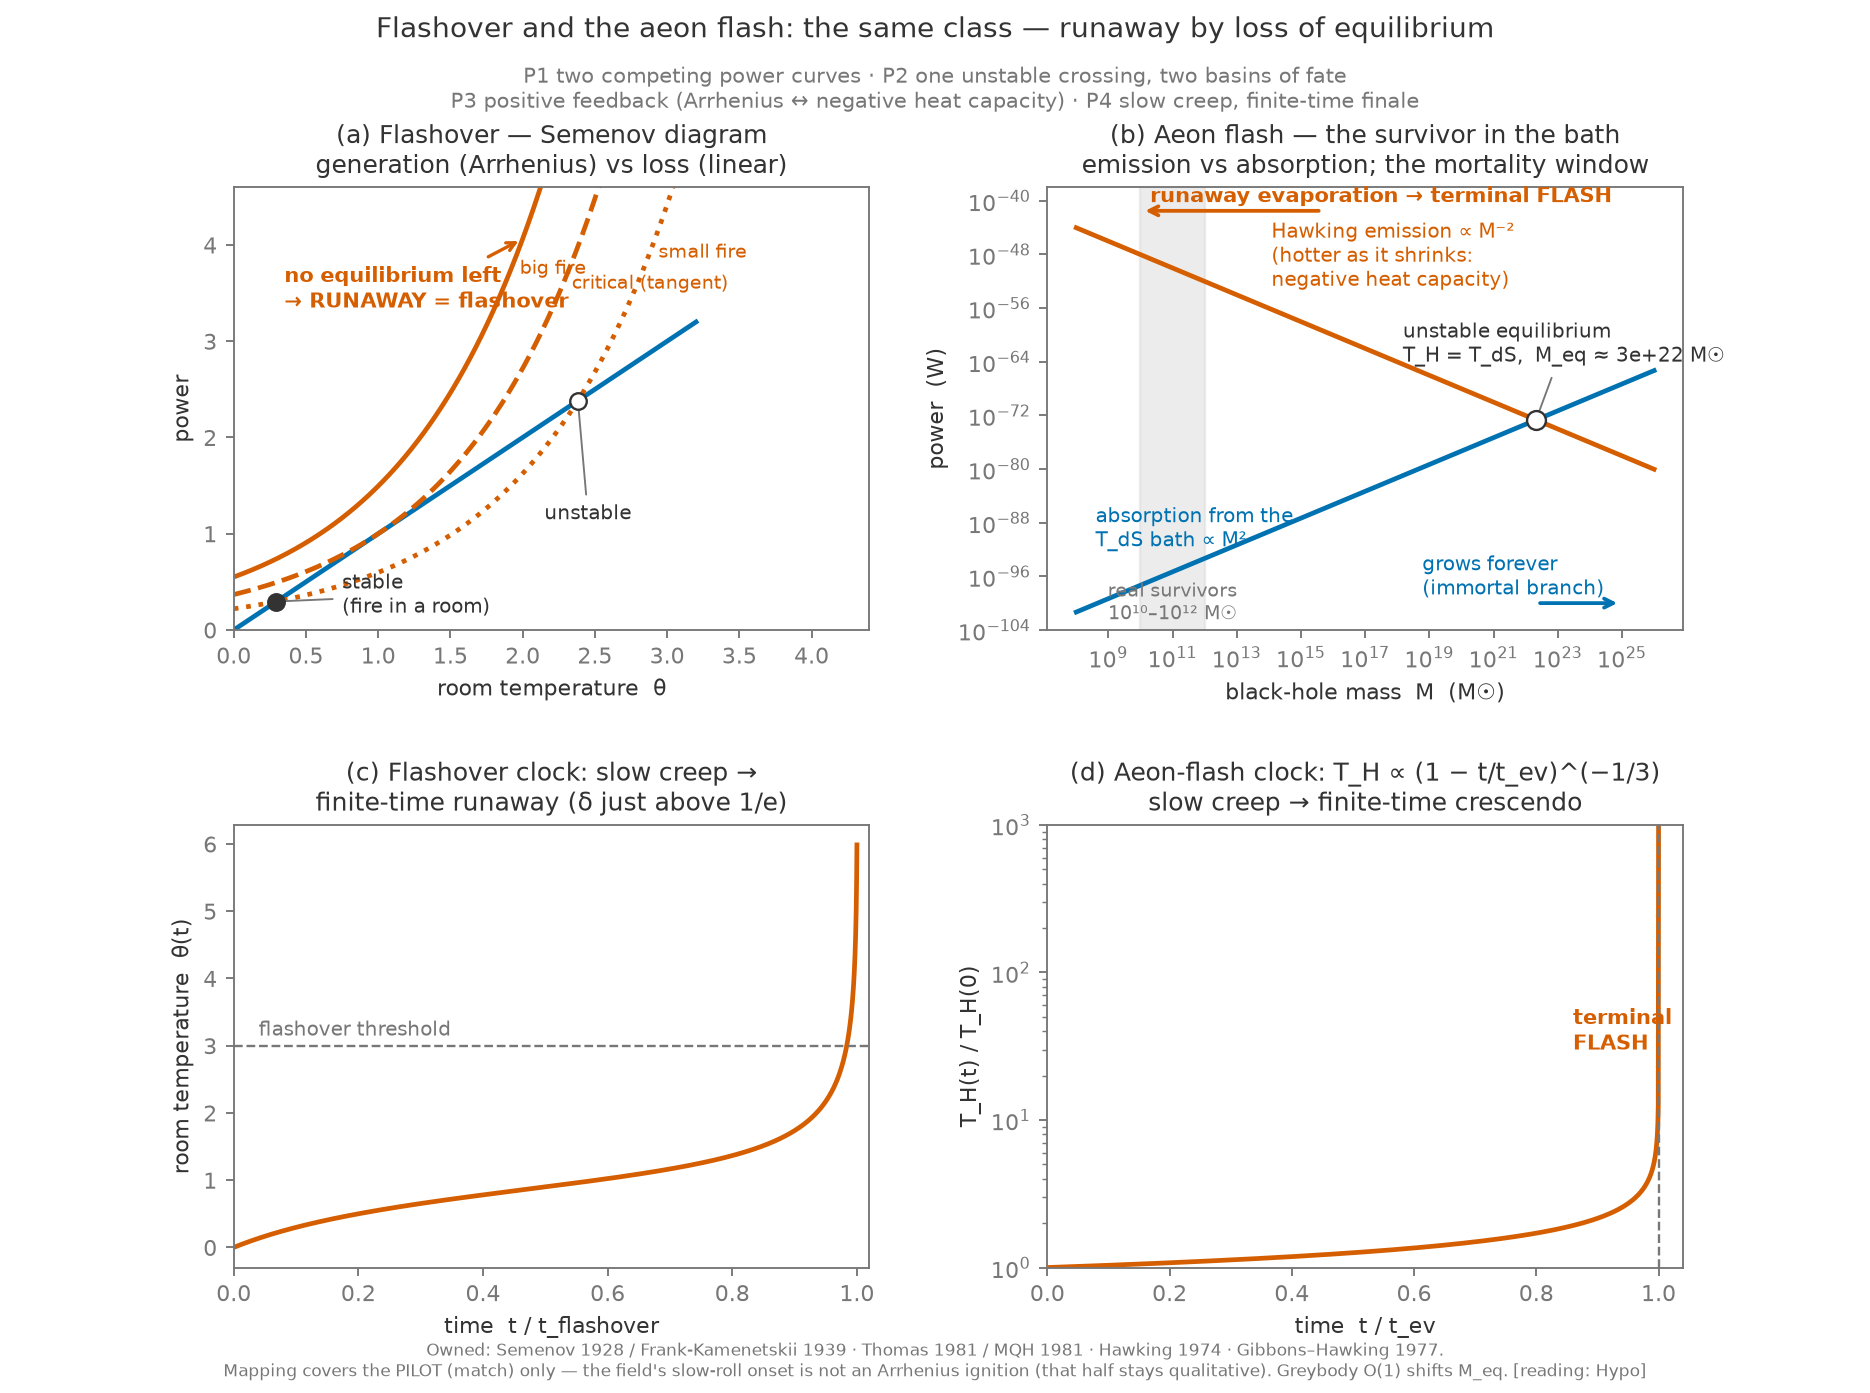
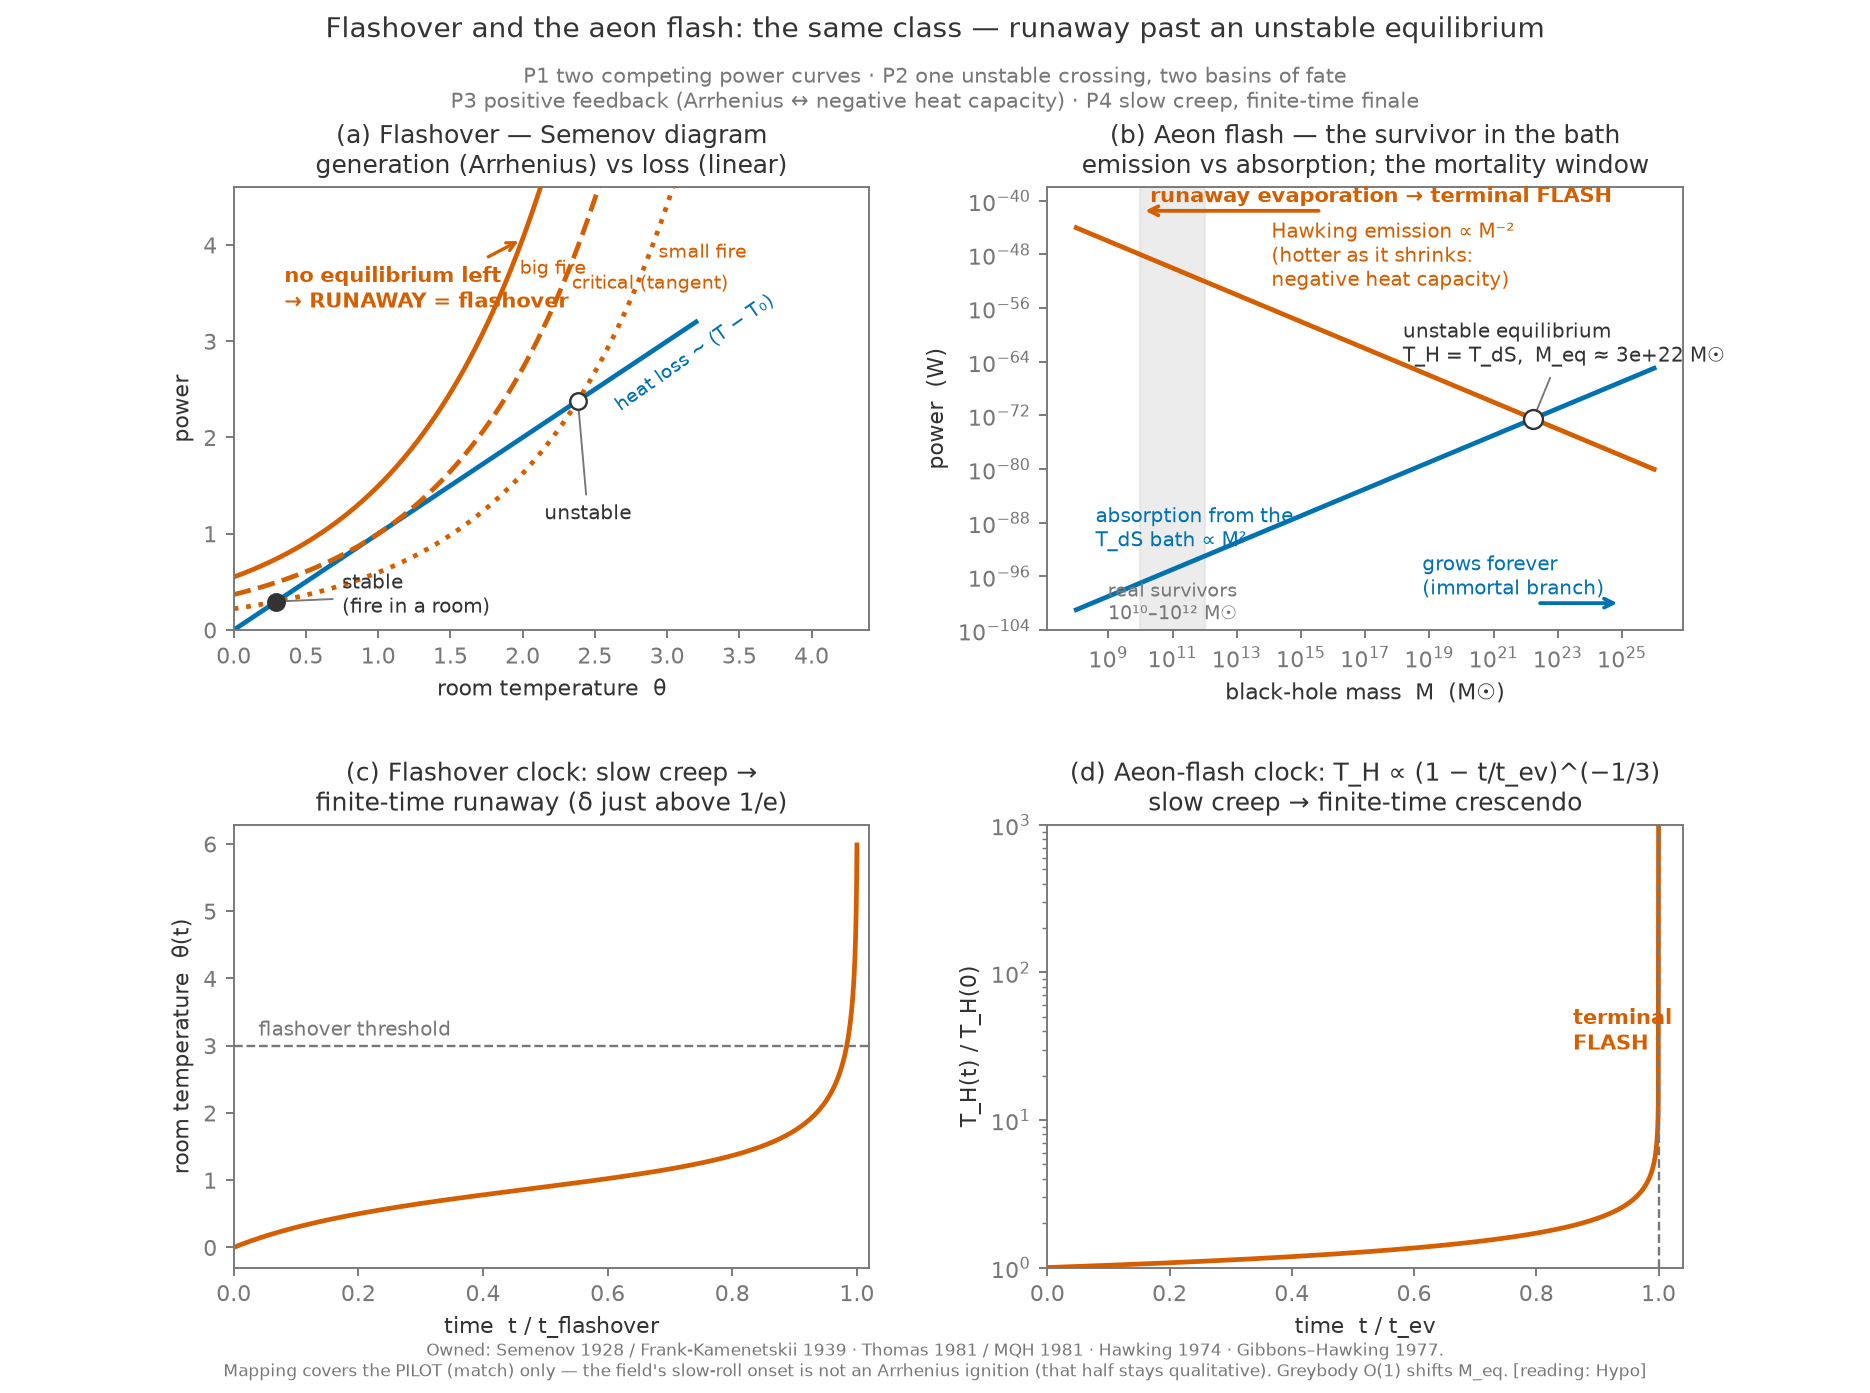
fix (verifier findings): H_inf sqrt restored, wording tightened, heat-loss line labeled
Independent verification recomputed everything (all core physics CONFIRMED:
M_eq routes, instability sign, Semenov tangency at 1/e, panel-d identity,
arrow directions, repo consistency ruled no-contradiction) and caught three
fixes, applied: (1) H_inf was 1.5e-18 = H0*Omega_L -- the sqrt was dropped,
disagreeing with the script's own comment and with endgame_anchored_desitter.py
(1.83e-18); corrected -> T_dS=2.22e-30 K, M_eq(T_H=T_dS)=2.77e22 Msun,
M_eq(flux)=1.72e22 Msun, survivor band 10.4-12.4 orders below the ceiling
(now also matching OPEN_PROBLEMS' '~10 orders' anchor); (2) suptitle/docstring
'runaway by loss of equilibrium' overreached -- the saddle-node annihilation is
Semenov-side only, panel (b)'s power laws always cross once; reworded to
'runaway past an unstable equilibrium' (the accurate shared class); (3) the
heat-loss line's legend label never rendered (no legend call) -- replaced with
a direct on-line label; orders print now one decimal.

diff --git a/code/flashover_vs_aeonflash_semenov.py b/code/flashover_vs_aeonflash_semenov.py
@@ -1,6 +1,6 @@
 #!/usr/bin/env python3
-"""Flashover vs the aeon flash: the SAME mathematical class ("runaway by loss of
-equilibrium"), drawn side by side. Produces figs/flashover_vs_aeon_flash.png.
+"""Flashover vs the aeon flash: the SAME mathematical class ("runaway past an
+unstable equilibrium"), drawn side by side. Produces figs/flashover_vs_aeon_flash.png.
 
 Run to reproduce. All ingredients owned:
   * Semenov thermal-explosion theory (Semenov 1928; Frank-Kamenetskii 1939):
@@ -28,7 +28,7 @@ import matplotlib.pyplot as plt
 # ---------- constants (SI) ----------
 G, hbar, c, kB = 6.674e-11, 1.055e-34, 2.998e8, 1.381e-23
 a_rad, Msun = 7.566e-16, 1.989e30
-H_inf = 1.5e-18                                  # s^-1  (H0*sqrt(Omega_L), ~measured Lambda)
+H_inf = 1.83e-18                                 # s^-1  (H0*sqrt(Omega_L), matches endgame_anchored_desitter.py)
 T_dS = hbar * H_inf / (2 * np.pi * kB)           # Gibbons-Hawking bath
 
 # unstable equilibrium, two owned routes (agree up to greybody O(1)):
@@ -37,8 +37,8 @@ M_eq_flux = (hbar * c**9 / (15360 * 27 * np.pi**2 * G**4 * a_rad * T_dS**4)) ** 
 print(f"T_dS = {T_dS:.2e} K")
 print(f"M_eq (T_H = T_dS)      = {M_eq_TH/Msun:.2e} Msun")
 print(f"M_eq (flux balance)    = {M_eq_flux/Msun:.2e} Msun   (greybody O(1) apart)")
-print(f"survivor band 1e10-1e12 Msun sits {np.log10(M_eq_TH/Msun/1e12):.0f}-"
-      f"{np.log10(M_eq_TH/Msun/1e10):.0f} orders below the ceiling")
+print(f"survivor band 1e10-1e12 Msun sits {np.log10(M_eq_TH/Msun/1e12):.1f}-"
+      f"{np.log10(M_eq_TH/Msun/1e10):.1f} orders below the ceiling")
 
 # ---------- palette (validated: Okabe-Ito pair + neutral inks) ----------
 BLUE, ORANGE = "#0072B2", "#D55E00"       # loss/absorption vs generation/emission
@@ -56,7 +56,8 @@ fig.subplots_adjust(hspace=0.44, wspace=0.28, top=0.865, bottom=0.09)
 ax = axs[0, 0]
 th = np.linspace(0, 3.2, 400)
 loss = th
-ax.plot(th, loss, color=BLUE, lw=2, label="heat loss  ~ (T − T₀)")
+ax.plot(th, loss, color=BLUE, lw=2)
+ax.text(2.62, 2.28, "heat loss ~ (T − T₀)", color=BLUE, fontsize=8, rotation=35)
 curve_tags = [(0.22, ":", "small fire", 2.88), (np.e**-1, "--", "critical (tangent)", 2.28),
               (0.55, "-", "big fire", 1.92)]
 for delta, ls, tag, xlab in curve_tags:
@@ -135,7 +136,7 @@ ax.axvline(1.0, color=MUT, lw=1, ls="--")
 ax.text(0.86, 30, "terminal\nFLASH", color=ORANGE, fontsize=9, fontweight="bold")
 ax.set_xlim(0, 1.04); ax.set_ylim(1, 1e3)
 
-fig.suptitle("Flashover and the aeon flash: the same class — runaway by loss of equilibrium", fontsize=12, y=0.988)
+fig.suptitle("Flashover and the aeon flash: the same class — runaway past an unstable equilibrium", fontsize=12, y=0.988)
 fig.text(0.5, 0.922, "P1 two competing power curves · P2 one unstable crossing, two basins of fate\n"
          "P3 positive feedback (Arrhenius ↔ negative heat capacity) · P4 slow creep, finite-time finale",
          ha="center", fontsize=8.7, color=MUT)